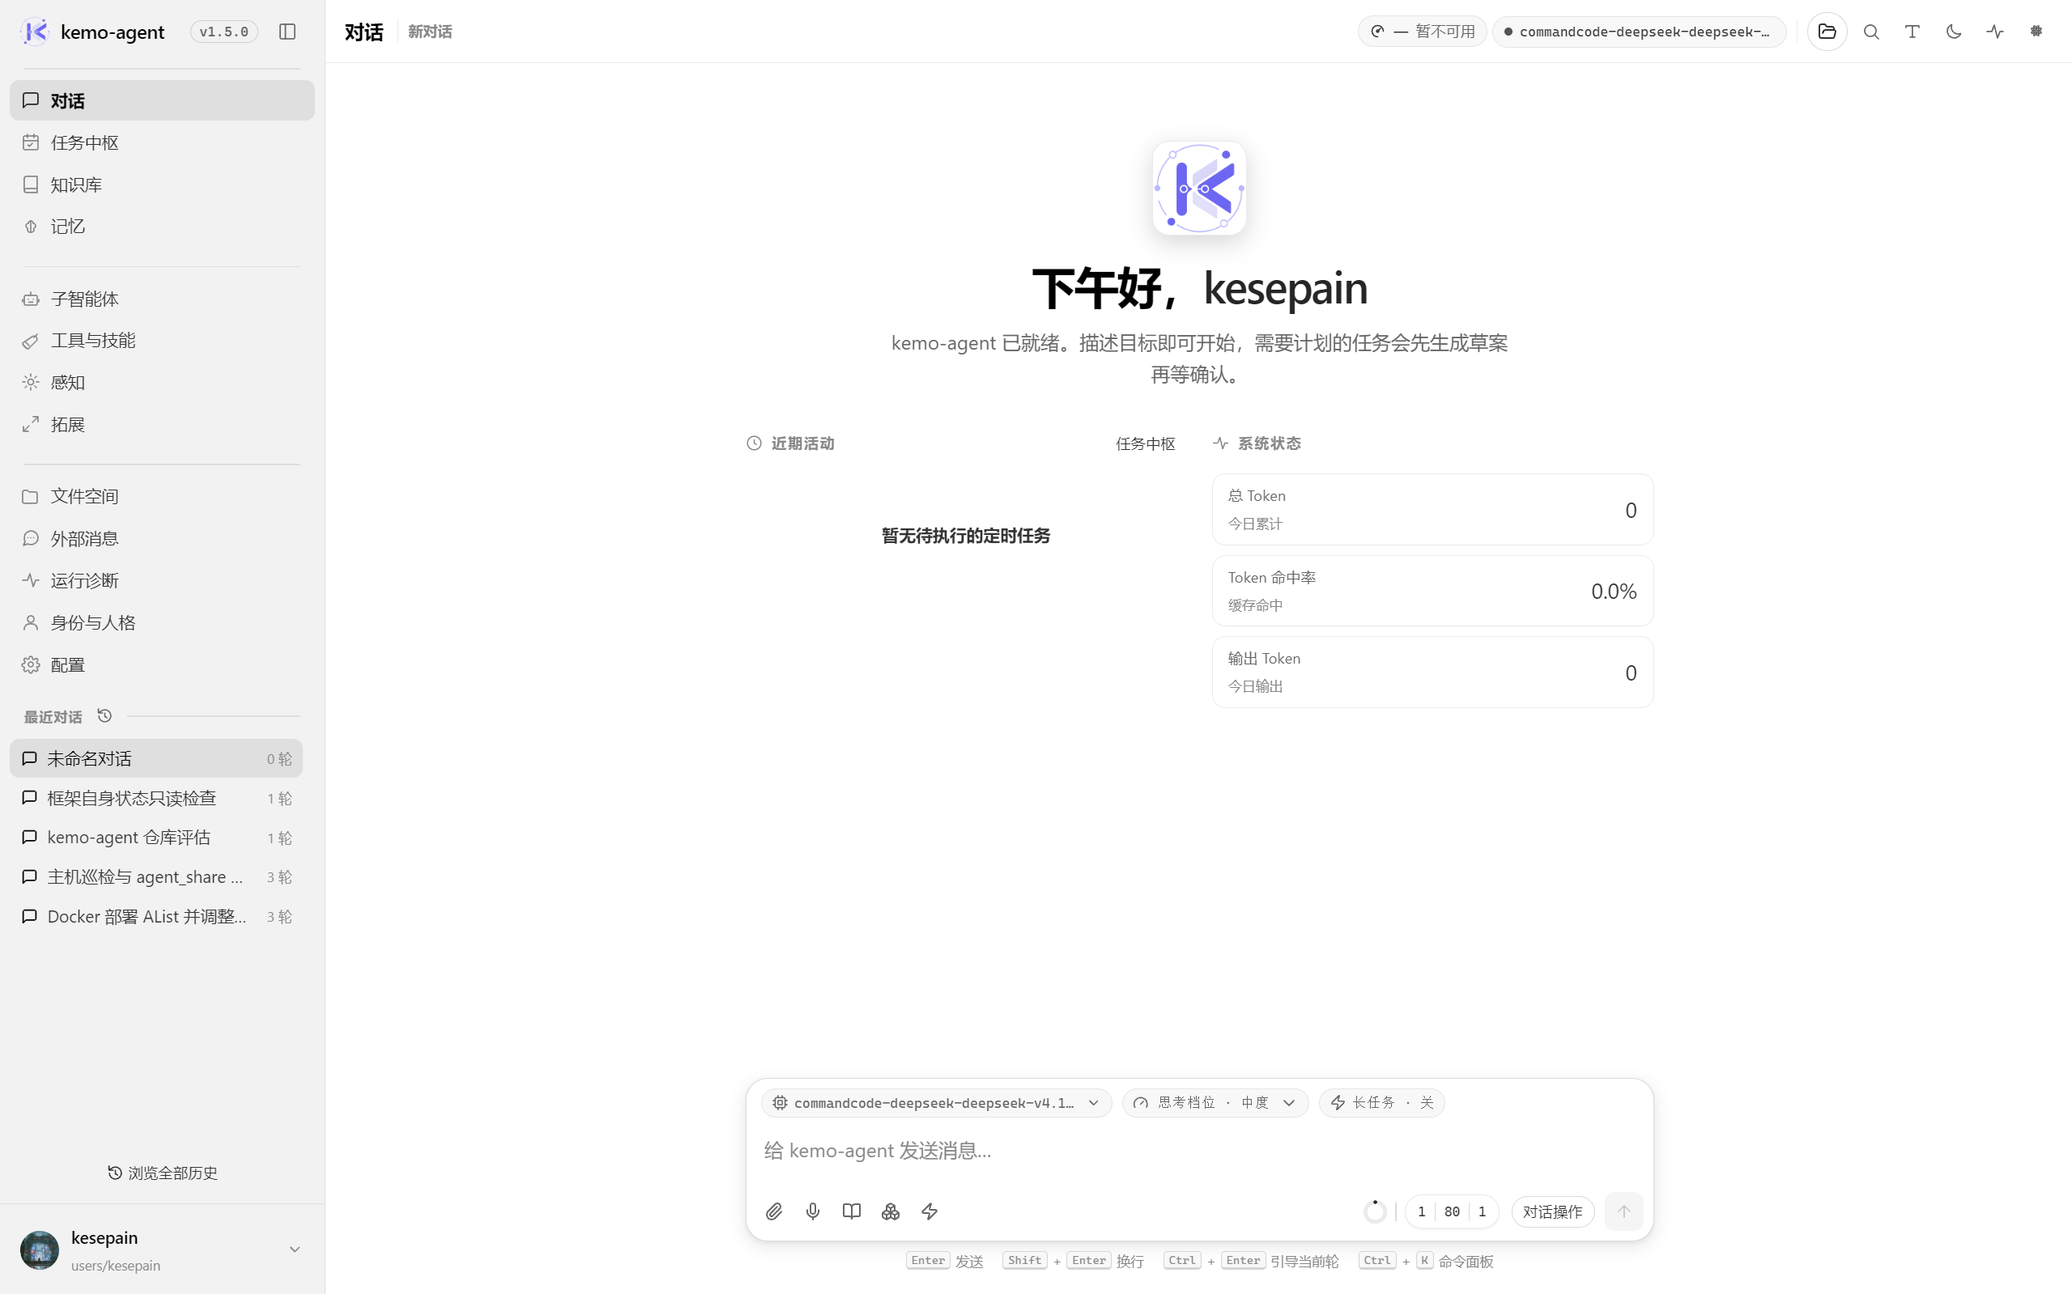
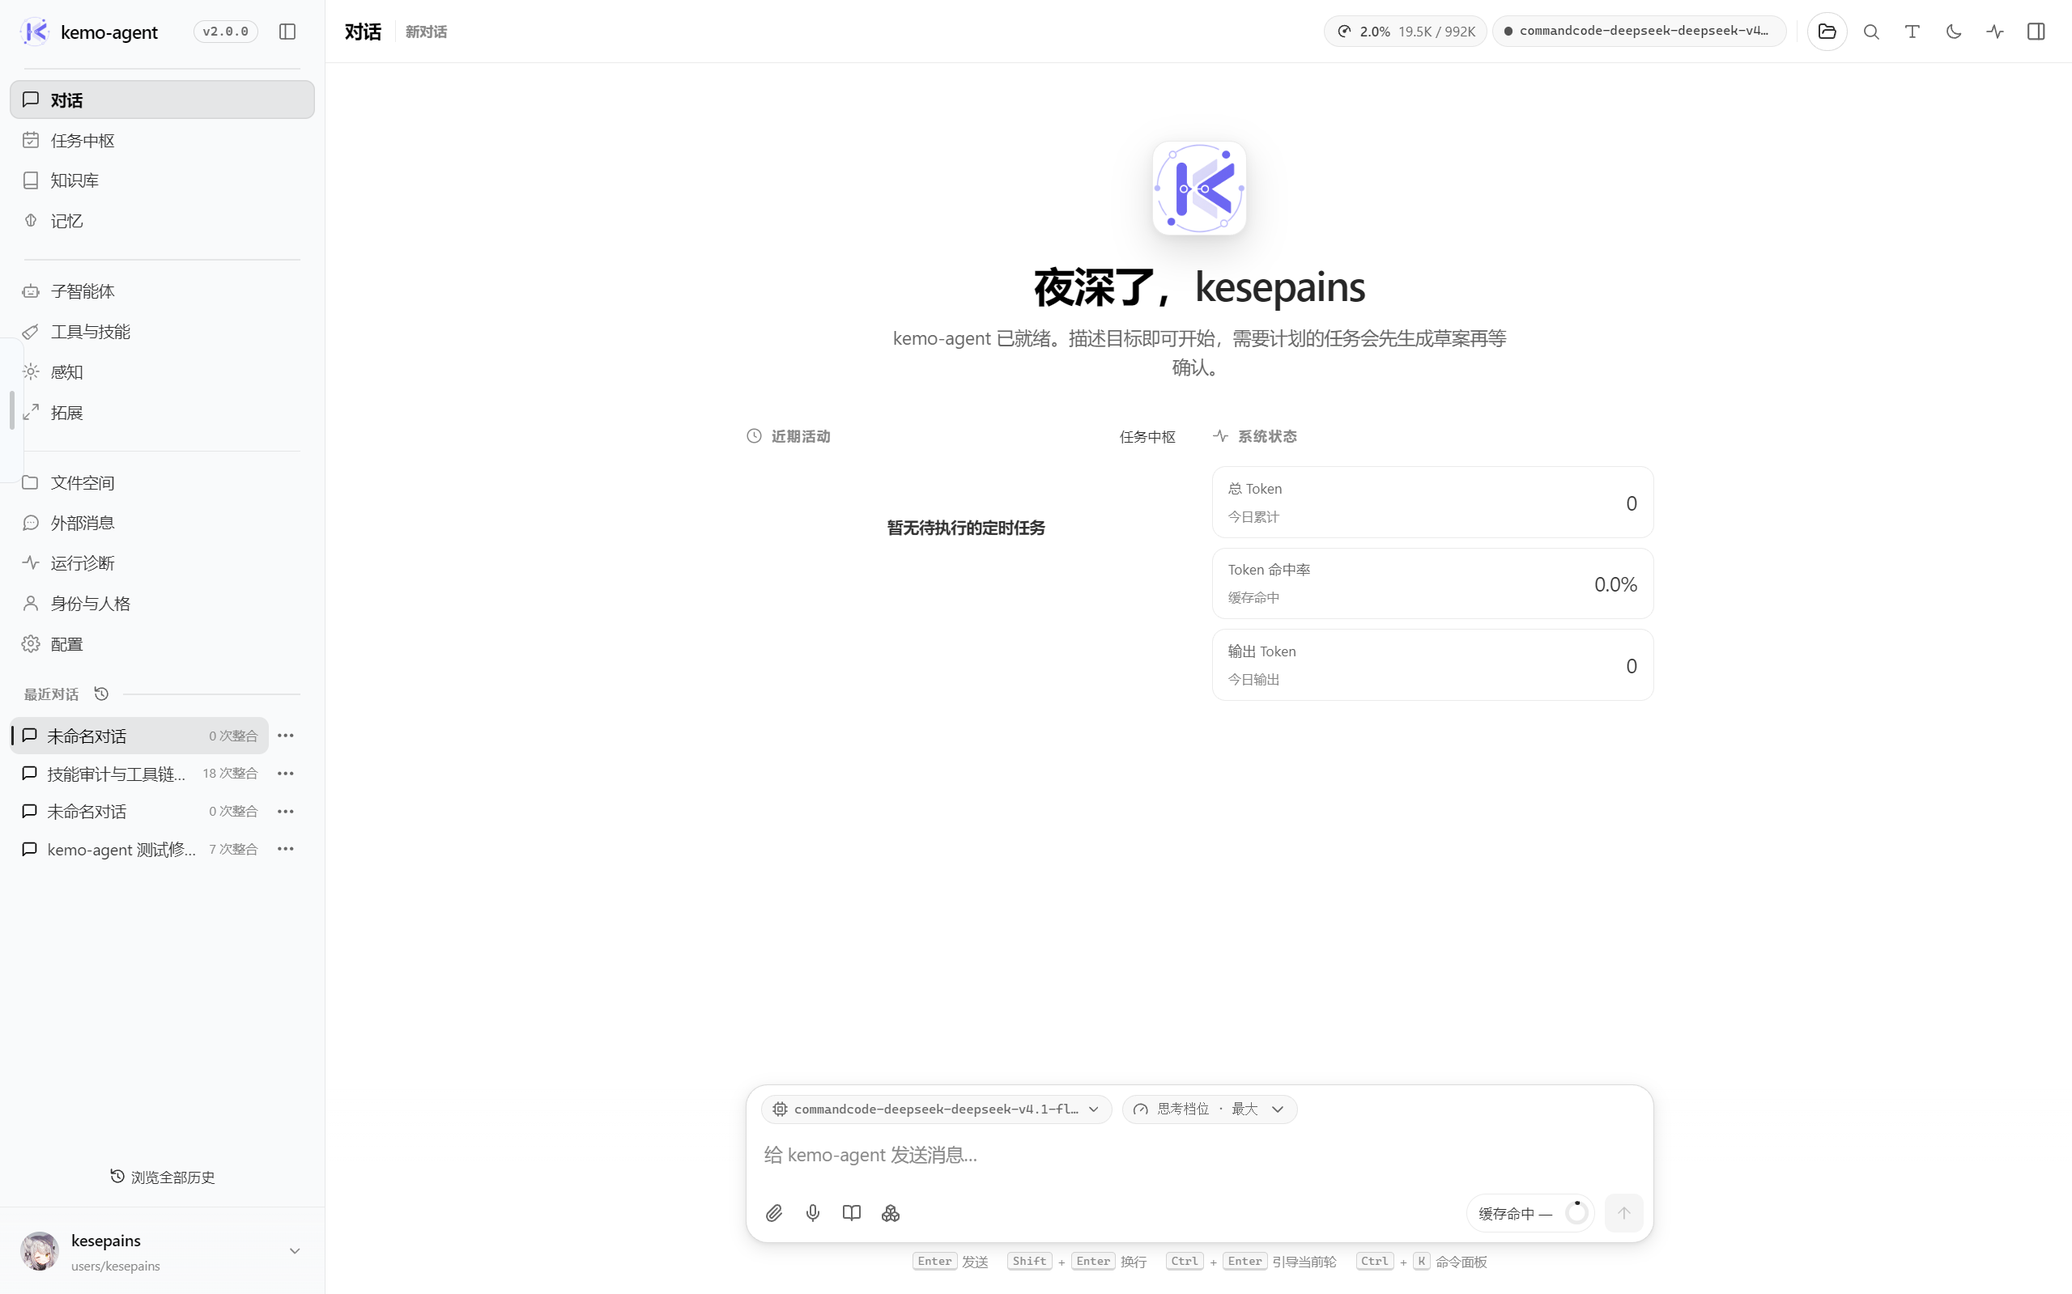
chore(release): 同步发布文档、部署脚本与更新模块
更新部署校验、更新常量与备份逻辑、消息入口与内置拓展状态标记，以及首页截图。

diff --git a/update/migrations.py b/update/migrations.py
@@ -51,7 +51,7 @@ def backup_runtime_databases(*, root: Path = ROOT, dry_run: bool) -> DatabaseBac
         user / relative
         for user in _user_directories(root)
         for relative in (
-            "cards.sqlite3", "improve/memory.sqlite3",
+            "history/cards.sqlite3", "cards.sqlite3", "improve/memory.sqlite3",
             "task_plan/task_plans.sqlite3",
         )
         if (user / relative).is_file()
@@ -114,7 +114,7 @@ def _recovery_hint(backups: DatabaseBackups | None) -> str:
         f"；更新前数据库备份：{backups.directory}。恢复前停止所有框架进程，"
         "保留现有数据库及 WAL/SHM，按 manifest.json 对应路径使用 SQLite backup API 恢复；"
         "源码自动回滚不等于数据库已经恢复。单库恢复命令示例见 "
-        "knowledge/global/storage-and-persistence.md 的“手工恢复单库”"
+        "knowledge/global/runtime/storage-and-persistence.md 的“手工恢复单库”"
     )
 
 
@@ -189,7 +189,7 @@ def initialize_user_memory_databases(
 def initialize_runtime_state_databases(
     *, root: Path = ROOT, dry_run: bool, backups: DatabaseBackups | None = None
 ) -> None:
-    """Initialize current SQLite stores without scanning obsolete formats."""
+    """Relocate CardStream if needed, then initialize current SQLite stores."""
 
     users = _user_directories(root)
     if dry_run:
@@ -204,6 +204,7 @@ def initialize_runtime_state_databases(
         from run.tasks import PlanStore
 
         for user_path in users:
+            _relocate_card_database(root, user_path)
             with connection(root, user_path.name):
                 pass
             ProcessedMessageStore(root, user_path.name).recover_interrupted()
@@ -214,3 +215,27 @@ def initialize_runtime_state_databases(
         raise
     except Exception as exc:
         raise UpdateError(f"运行状态 SQLite 初始化失败：{exc}{_recovery_hint(backups)}") from exc
+
+
+def _relocate_card_database(root: Path, user_path: Path) -> None:
+    """Move the previous CardStream location during a stopped, backed-up update."""
+    from contextlib import closing
+    import sqlite3
+
+    from plugins._creator_security import reject_link_components
+
+    source = user_path / "cards.sqlite3"
+    if not source.exists():
+        return
+    destination = user_path / "history" / "cards.sqlite3"
+    reject_link_components(root.resolve(), source, label="CardStream 迁移源")
+    reject_link_components(root.resolve(), destination, label="CardStream 迁移目标")
+    if not source.is_file() or source.stat().st_nlink > 1:
+        raise UpdateError(f"CardStream 迁移源必须是非链接普通文件：{source}")
+    if destination.exists():
+        raise UpdateError(f"CardStream 新旧位置同时存在数据库，拒绝覆盖：{source}；{destination}")
+    with closing(sqlite3.connect(source, timeout=5.0)) as database:
+        if database.execute("PRAGMA wal_checkpoint(TRUNCATE)").fetchone()[0] != 0:
+            raise UpdateError(f"CardStream WAL 仍被占用，未移动数据库：{source}")
+    destination.parent.mkdir(parents=True, exist_ok=True)
+    source.rename(destination)

diff --git a/update/backup.py b/update/backup.py
@@ -9,6 +9,8 @@ from pathlib import Path
 from ._utils import green, sync_directory, yellow
 from .constants import (
     BACKUP_EXCLUDES,
+    BACKUP_ABSENT_FILE_MARKERS,
+    BACKUP_INCLUDED_FILES,
     BACKUP_KEEP,
     ROLLBACK_MANAGED_FILES,
     ROLLBACK_MANAGED_PATHS,
@@ -25,6 +27,16 @@ def make_backup(*, root: Path = ROOT, dry_run: bool = False) -> Path | None:
     backup_dir.mkdir(parents=True, exist_ok=False)
     try:
         sync_directory(root, backup_dir, delete=False, excludes=BACKUP_EXCLUDES)
+        for relative in BACKUP_INCLUDED_FILES:
+            source = root / relative
+            if source.is_file():
+                target = backup_dir / relative
+                target.parent.mkdir(parents=True, exist_ok=True)
+                shutil.copy2(source, target, follow_symlinks=False)
+            else:
+                marker = backup_dir / BACKUP_ABSENT_FILE_MARKERS[relative]
+                marker.parent.mkdir(parents=True, exist_ok=True)
+                marker.touch()
     except Exception:
         # An incomplete backup must never be presented as recoverable.
         shutil.rmtree(backup_dir, ignore_errors=True)
@@ -65,6 +77,16 @@ def restore_backup(*, backup_dir: Path, root: Path = ROOT) -> None:
         delete=False,
         excludes=BACKUP_EXCLUDES,
     )
+    for relative in BACKUP_INCLUDED_FILES:
+        source = backup_dir / relative
+        target = root / relative
+        if source.is_file():
+            target.parent.mkdir(parents=True, exist_ok=True)
+            shutil.copy2(source, target, follow_symlinks=False)
+        elif (
+            backup_dir / BACKUP_ABSENT_FILE_MARKERS[relative]
+        ).is_file():
+            target.unlink(missing_ok=True)
     for relative in ROLLBACK_MANAGED_FILES:
         source = backup_dir / relative
         target = root / relative

diff --git a/message/plugin.py b/message/plugin.py
@@ -291,7 +291,11 @@ class FileMessageTransport:
                     self._pending[token] = _PendingEnvelope(
                         originals, claim
                     )
-                    callback(envelope)
+                    try:
+                        callback(envelope)
+                    except BaseException:
+                        self._pending.pop(token, None)
+                        raise
                     submitted += 1
                 self._update_state(
                     lambda state: (
@@ -304,12 +308,22 @@ class FileMessageTransport:
                 )
             except BaseException as exc:
                 raise_if_host_exception(exc)
+                pending_count = sum(
+                    pending.claim_path == claim
+                    for pending in self._pending.values()
+                )
+                if pending_count:
+                    self._claim_counts[claim] = pending_count
+                else:
+                    self._claim_counts.pop(claim, None)
                 failed = claim.with_suffix(claim.suffix + ".failed")
                 try:
                     os.replace(claim, failed)
-                except OSError:
-                    pass
-                self._active_claims.discard(claim)
+                except OSError as move_error:
+                    self._report_error(move_error)
+                else:
+                    if pending_count == 0:
+                        self._active_claims.discard(claim)
                 self._report_error(exc)
         return submitted
 

diff --git a/user_create.py b/user_create.py
@@ -126,25 +126,9 @@ def create_user(
 
 
 def _post_process_knowledge(root: Path, name: str) -> None:
-    """初始化 knowledge 索引和分类 SQLite 表。"""
-    from run.config import ensure_classification_file
+    """Ensure the user's path-based knowledge root exists."""
 
-    index_path = root / "users" / name / "knowledge" / "data_structure.md"
-    index_path.parent.mkdir(parents=True, exist_ok=True)
-    if not (index_path.exists() and index_path.stat().st_size > 0):
-        index_path.write_text(
-            f"# users/{name}/knowledge/ 目录结构\n\n"
-            f"用户 {name} 的私有知识库。\n\n"
-            f"| 文件 | 说明 |\n"
-            f"|------|------|\n"
-            f"| `data_structure.md` | 本索引文件 |\n\n"
-            f"## 检索规则\n\n"
-            f"1. 先查此目录，再查全局知识库。\n"
-            f"2. 用户私有信息默认写入此目录。\n"
-            f"3. 文件发生增删改移后必须同步本索引。\n",
-            "utf-8",
-        )
-    ensure_classification_file(index_path.parent)
+    (root / "users" / name / "knowledge").mkdir(parents=True, exist_ok=True)
 
 
 def _post_process_memory(root: Path, name: str) -> None:

diff --git a/update/constants.py b/update/constants.py
@@ -89,6 +89,12 @@ RUNTIME_EXCLUDES = (
 # Keep this alias for callers and older tests that used BACKUP_EXCLUDES.
 BACKUP_EXCLUDES = RUNTIME_EXCLUDES + (".git/", ".venv/", "venv/", ".backups/")
 
+# Release-managed files inside otherwise runtime-owned directories.
+BACKUP_INCLUDED_FILES = ("skills/register.py",)
+BACKUP_ABSENT_FILE_MARKERS = {
+    "skills/register.py": "skills/.register.py.absent",
+}
+
 # Source directories that a normal release may update and therefore must be
 # restored after a failed write. User/runtime-owned paths are handled
 # separately through RUNTIME_EXCLUDES and board-specific merge rules.
@@ -105,7 +111,6 @@ ROLLBACK_MANAGED_PATHS = (
     "expand/global",
     "expand/share",
     "sense",
-    "skills",
     "agents",
     "plugins",
     "web",

diff --git a/deploy/pack.py b/deploy/pack.py
@@ -22,12 +22,11 @@ ROOT_FILES = {'version.json', 'cli.py', 'events.py', 'setup.py', 'update.py', 'r
 
 
 def publishable(name: str) -> bool:
-    if preserved_seed(name):
-        # 默认知识分类表是框架自带数据，必须进包；安装时只补缺不覆盖。
-        return True
-    if name.endswith('/classify.sql'):
-        # 旧格式文本分类脚本已由分类数据表取代，不再随发布包分发。
+    if name.endswith(('/classify.sql', '/classify.sqlite3')):
+        # 分类元数据已退役；旧发布包仍可安装，新包不再携带。
         return False
+    if preserved_seed(name):
+        return True
     parts = Path(name).parts
     if parts[0] not in DIRECTORIES and name not in ROOT_FILES:
         return False

diff --git a/update/_utils.py b/update/_utils.py
@@ -61,7 +61,8 @@ _DISPLAY_URL_RE = re.compile(r"(?i)\bhttps?://[^\s'\"<>]+")
 
 
 def _is_sensitive_key(value: object) -> bool:
-    normalized = re.sub(r"[^a-z0-9]+", "_", str(value).casefold()).strip("_")
+    value = re.sub(r"([a-z0-9])([A-Z])", r"\1_\2", str(value))
+    normalized = re.sub(r"[^a-z0-9]+", "_", value.casefold()).strip("_")
     if normalized in _DISPLAY_SENSITIVE_KEYS:
         return True
     return normalized.endswith(

diff --git a/deploy/core/policy.py b/deploy/core/policy.py
@@ -17,6 +17,7 @@ LOCAL_NAMES = {
 }
 # 发布包携带的默认数据文件：缺失时补入，已存在时一律保留本机内容。
 # 逐条精确列出，避免把运行期数据库整体放进发布包。
+# 接受旧发布包中的分类默认数据；新打包器已停止分发，已有本机文件仍不覆盖。
 RELEASE_DATA_FILES = frozenset({
     'knowledge/global/classify.sqlite3',
     'knowledge/share/classify.sqlite3',

diff --git a/README_EN.md b/README_EN.md
@@ -243,7 +243,7 @@ python start_web.py
 
 The default web address is `http://127.0.0.1:1357`. Start with the web interface and configure model services, the user, and access credentials.
 
-See the [deployment guide](deploy/README.md) for options, custom paths, offline archives, recovery, and publication, and the [deployment knowledge reference](knowledge/global/deployment-and-release.md) for the agent-facing contract. Both detailed guides are currently in Chinese.
+See the [deployment guide](deploy/README.md) for options, custom paths, offline archives, recovery, and publication, and the [deployment knowledge reference](knowledge/global/release/deployment-and-release.md) for the agent-facing contract. Both detailed guides are currently in Chinese.
 
 ---
 
@@ -276,16 +276,6 @@ Confirmed compatible Kemo gateway: `kemo-adapter-api 1.0.0` (Kemo 2.0 wire proto
 - `file.search` now uses only `name` and `content`; `web_search.search` uses semantic `answer` and `raw_content` enums.
 - The graph guide is split into `kemo_graph_read` and `kemo_graph_write`; read permission no longer exposes write operations.
 - Duplicate parameter tables were removed from plugin guides. Old tool names and parameter semantics are intentionally incompatible.
-
-### 1.5.3 release notes (November 2, 2026)
-
-A bug-fix-only release with no new features, focused on the correctness of both the KEMO and Chat protocol paths.
-
-- Clarifies subagent stop, live guidance, and cascading cancellation semantics: an ordinary stop leaves running child tasks intact, while cancellation is requested only for an explicit cascade. Web controls require an execution handle held by the current process and do not support cross-process takeover.
-- Fixes terminal phase backfill for streamed Chat messages. Message start does not predict later tool calls or buffer text; the terminal phase is set to `commentary` or `final_answer` from the final tool-call state, consistent with non-streaming behavior.
-- Improves subagent input preflight diagnostics by identifying field type mismatches and reporting counts for unknown field names that cannot be safely exposed. It does not echo input values or unsafe names, relax strict schemas, or change the 400/600-character response budgets.
-- Corrects Chat request normalization and thinking-parameter mapping so the compatibility layer cannot weaken Kemo protocol invariants.
-- This is a source finalization, not confirmation that Release, npm, or GHCR artifacts have been built, verified, or published. Historical validation records and older artifacts are not relabeled as 1.5.3.
 
 The current `kemo-preview` branch builds on this baseline with the CardStream refactor: complete immutable RAW
 history and a rolling VIEW summary. Each main request freezes history and the dynamic tail, compacting above

diff --git a/readme.md b/readme.md
@@ -243,7 +243,7 @@ python start_web.py
 
 默认网页地址：`http://127.0.0.1:1357`。初次使用建议从网页端开始，完成模型服务、用户与访问凭据配置。
 
-完整参数、自定义路径、离线包、恢复和发布步骤见 [部署说明](deploy/README.md)；智能体使用的统一合同见 [部署与发布知识专题](knowledge/global/deployment-and-release.md)。
+完整参数、自定义路径、离线包、恢复和发布步骤见 [部署说明](deploy/README.md)；智能体使用的统一合同见 [部署与发布知识专题](knowledge/global/release/deployment-and-release.md)。
 
 ---
 
@@ -276,16 +276,6 @@ kemo-agent 并不试图成为一个无所不能、替用户做出所有决定的
 - `file.search` 收敛为 `name` / `content` 两种模式；`web_search.search` 改用 `answer` / `raw_content` 语义枚举。
 - 图谱引导工具拆分为 `kemo_graph_read` 与 `kemo_graph_write`，读权限不再提供写入操作。
 - 插件说明删除与工具 schema 重复的参数表；旧工具名和旧参数语义不兼容。
-
-### 1.5.3 更新说明（2026-11-02）
-
-本版为纯修复版本，不引入新功能，重点是 KEMO 与 Chat 两条协议链路的正确性。
-
-- 明确子代理停止、运行中引导与级联取消语义：普通停止保留仍运行的子任务，只有显式级联停止才请求取消关联任务。Web 控制仅适用于当前进程仍持有的执行句柄，不提供跨进程接管。
-- 修复 Chat 流式消息终态 phase 回填。消息开始时不预判后续是否有工具调用、不缓冲文本；终态按最终工具调用状态标记为 commentary 或 final_answer，与非流式语义一致。
-- 增强子代理 input 前置校验诊断，指出字段类型不匹配，并按数量提示不可安全外发的未知字段；不回显输入值或不安全字段名，不放宽严格 schema，也不改变 400/600 字符预算。
-- 修正 Chat 侧请求归一化与思考参数映射，避免兼容层反向污染 Kemo 协议的约束。
-- 本次为源码定档，不代表远程 Release、npm 或 GHCR 产物已构建、验收或发布；历史验收记录与旧产物不改名冒充 1.5.3。
 
 当前 `kemo-preview` 分支在上述版本基线继续执行 CardStream 重构：RAW 完整保存、VIEW 滚动摘要；
 每次主请求前冻结历史与动态尾部，超过有效输入容量 80% 时按历史 Token 比例压缩。

diff --git a/deploy/VALIDATION.md b/deploy/VALIDATION.md
@@ -314,7 +314,7 @@ Python 检查通过。原始失败与最终日志分别保存在
   `pack.py --include-untracked` 生成 1.3.1 Release ZIP、npm 暂存目录和 Docker 构建上下文，
   校验 SHA256/manifest/预构建前端，再执行隔离的 `--files-only` 安装及安装树 `check`；
   当前 2 项全部通过。该目录被 Git 忽略，只补强系统集成，不替代正式测试。
-- 四渠道命令、中英文介绍、知识索引、暂定版本与发布前提由正式文档合同测试覆盖。
+- 四渠道命令、中英文介绍、手册知识导航、暂定版本与发布前提由正式文档合同测试覆盖。
 
 以下记录为部署器首次实现时的跨平台与真实应用验收，继续作为历史证据保留：
 

diff --git a/deploy/README.md b/deploy/README.md
@@ -5,7 +5,7 @@
 > 当前主框架稳定版本 **2.0.0（2026-11-05 正式定档）**，配套网关为 **1.0.0**，知识图谱基线为 **1.6.0**。本页远程命令仅在
 > 安装脚本及对应 Release/npm/GHCR 产物发布后可用；Git push 不会自动发布这些资产。
 > 中英文快速开始分别见 `../readme.md`、`../README_EN.md`，日常命令与渠道选择见
-> `../knowledge/global/deployment-and-release.md`。1.3.2、1.5.1、1.5.2 或 1.5.3 本地验收包不能改名充当 2.0.0，须重新构建打包。
+> `../knowledge/global/release/deployment-and-release.md`。1.3.2、1.5.1、1.5.2 或 1.5.3 本地验收包不能改名充当 2.0.0，须重新构建打包。
 
 ## 1. 发布合同：一个版本、一份应用包
 
